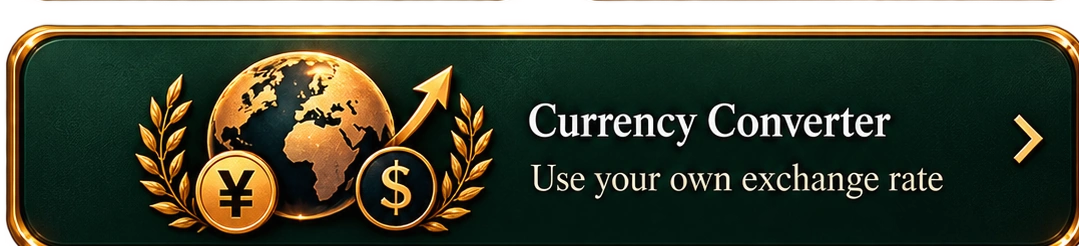
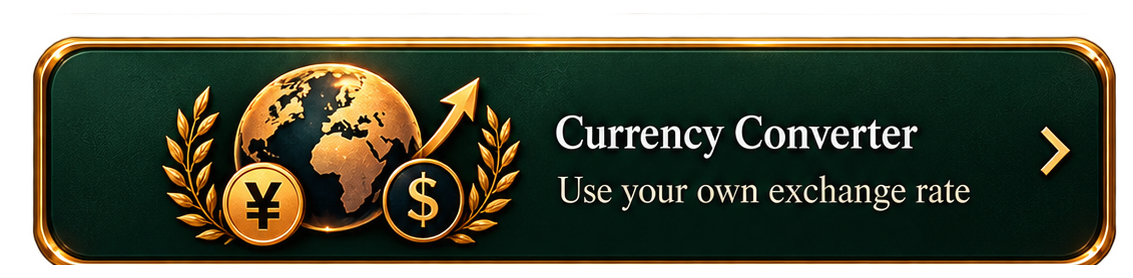
Rosie Calculations compact device and approved button assets (#86)
* Rosie Calculations: compact toolkits and selector rendering

* Rosie Calculations: compact family navigation

* Install seven approved lossless Calculations toolkit button images

* Update Calculations visual regression assertions for compact handoff

* Update Calculations visual regression assertions for compact handoff

diff --git a/src/RosieCalculationsDevice.css b/src/RosieCalculationsDevice.css
@@ -152,3 +152,75 @@
   padding-bottom:31px;
 }
 .rc-page .rc-device .rc-tool-result {padding-bottom:max(26px,3vw);}
+
+/* BEGIN ROSIE CALCULATIONS COMPACT HANDOFF 2026-10-11 */
+/* Keep the approved one-piece frame; adjust only instrument geometry. */
+.rc-page .rc-tool-panel.rc-device {
+  min-height: min(790px, 112vw);
+  margin: 20px auto 14px;
+  padding: clamp(101px, 28vw, 166px) 18.5% clamp(84px, 23vw, 142px);
+}
+.rc-page .rc-device-surface { gap: 9px; }
+.rc-page .rc-device-heading { margin-bottom: 4px; }
+.rc-page .rc-device .rc-form-grid { gap: 9px; }
+.rc-page .rc-device .rc-field { gap: 3px; }
+.rc-page .rc-device .rc-field input,
+.rc-page .rc-device .rc-field select {
+  height: 44px;
+  min-height: 44px;
+  width: 90%;
+  max-width: 90%;
+  margin-inline: auto;
+  padding: 5px 12px;
+  font-size: 16px;
+  background-size: 100% 100%;
+}
+.rc-page .rc-device .rc-field:has(select) select,
+.rc-page .rc-device .rc-field:has(input[type="date"]) input { width: 96%; max-width: 96%; }
+.rc-page .rc-device .rc-tool-result {
+  min-height: 108px;
+  gap: 5px;
+  padding: 16px 16px 20px;
+  margin-top: 3px;
+}
+.rc-page .rc-device--tip .rc-tool-result,
+.rc-page .rc-device--split .rc-tool-result {
+  min-height: 145px;
+  padding: 19px 16px 24px;
+}
+/* Revised assets must be installed before merging. Display them uncropped. */
+.rc-page .rc-tool-grid { gap: 7px 5px; padding: 6px 3px 3px; overflow: visible; }
+.rc-page .rc-workspace .rc-tool-card,
+.rc-page .rc-workspace .rc-tool-card:nth-child(n) {
+  aspect-ratio: auto!important;
+  overflow: visible;
+  height: auto;
+}
+.rc-page .rc-tool-card img.rc-tool-art {
+  width: 100%;
+  height: auto;
+  max-height: none;
+  object-fit: contain;
+  object-position: center;
+  overflow: visible;
+}
+.rc-page .rc-tool-card--currency { grid-column: span 2; aspect-ratio: auto!important; }
+.rc-page .rc-device-housing .rc-device-original-art {
+  width: 100%; height: 100%; object-fit: fill;
+}
+.app-shell.page-calculations main.rc-page > header.rc-hero {
+  top: -25px!important;
+}
+.app-shell.page-calculations .bottom-nav {
+  bottom: calc(max(6px, env(safe-area-inset-bottom)) + 8px)!important;
+}
+.app-shell.page-calculations .nav-family-toggle {
+  transform: translate(-50%, 14px);
+}
+@media (max-width:380px) {
+  .rc-page .rc-device .rc-field input,
+  .rc-page .rc-device .rc-field select {
+    height: 44px; min-height: 44px; font-size: 16px;
+  }
+}
+/* END ROSIE CALCULATIONS COMPACT HANDOFF */

diff --git a/src/styles.css b/src/styles.css
@@ -7774,3 +7774,8 @@ html { -webkit-text-size-adjust: 100%; text-size-adjust: 100%; }
   }
   .resources-return--home {top:max(5px,env(safe-area-inset-top));left:5px;}
 }
+
+/* BEGIN ROSIE CALCULATIONS COMPACT HANDOFF 2026-10-11 */
+/* All non-home pages: lower Games/Tools pendant 6px relative to navigation. */
+.app-shell .nav-family-toggle { transform: translate(-50%, 6px); }
+/* END ROSIE CALCULATIONS COMPACT HANDOFF */
